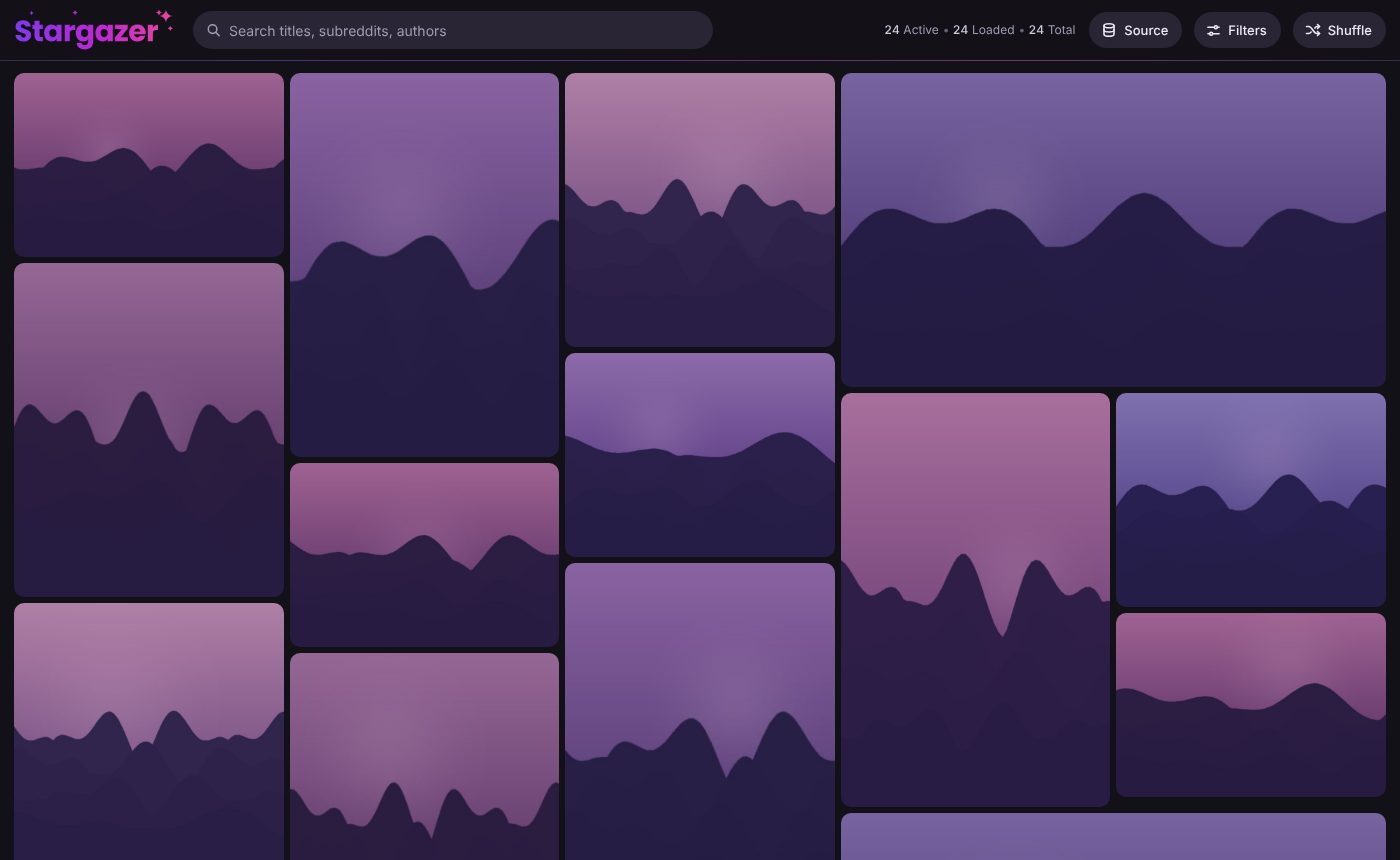
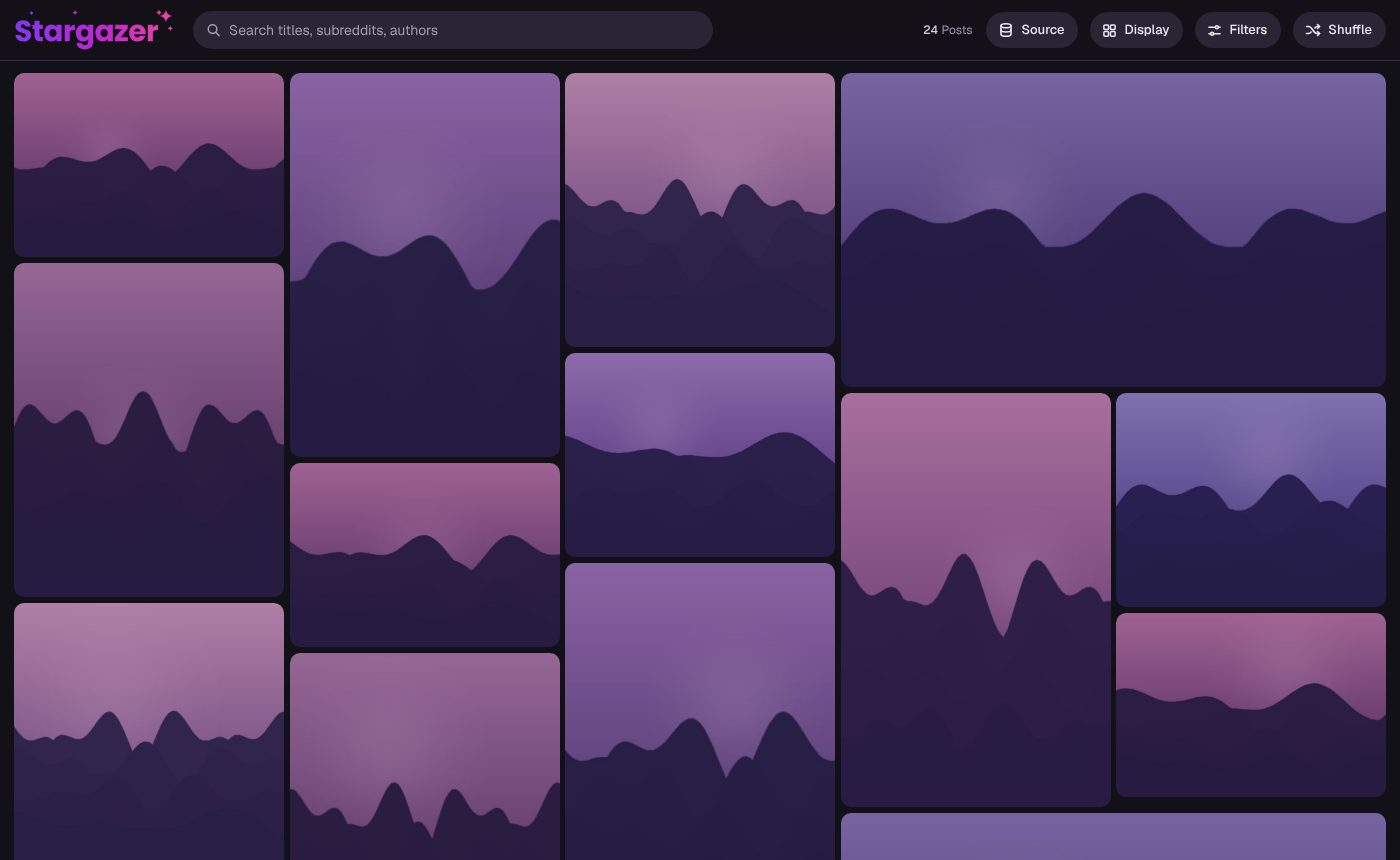
One-column Filters panel; refresh README screenshots
Claude-Session: https://claude.ai/code/session_016JHCbiyqMrHVFQVZPWBarR

diff --git a/site/index.html b/site/index.html
@@ -206,7 +206,7 @@ body.stats-flat .stats .st:not(:first-child){display:none}   /* nothing filtered
 .kindbadge{display:inline-flex;align-items:center;gap:6px;width:fit-content;max-width:100%;font-size:12px;font-weight:600;padding:0;color:var(--muted)}   /* plain text with an icon: it states a fact, it is not a button */
 .kindbadge[data-k=account]{color:var(--ink)}
 .kindbadge svg{flex:none}
-#panel{max-width:640px}
+#panel{max-width:440px;grid-template-columns:1fr;gap:18px}   /* one column since the view settings moved to Display */
 #browseCol{grid-column:1/-1;border-top:1px solid var(--line);padding-top:18px}
 .pcol h2{margin:0 0 2px;font-size:12px;font-weight:600;color:var(--muted)}
 .grp{display:grid;gap:7px}
